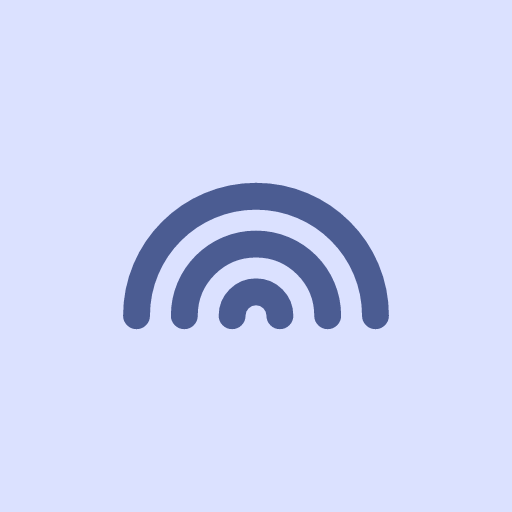
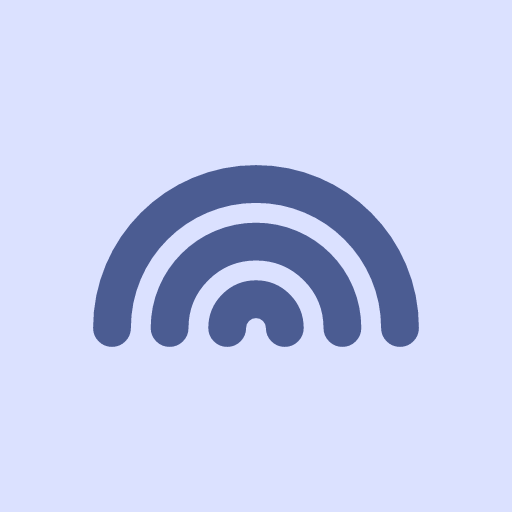
startpage: r39
- fade the help and settings toolbar while the search box has focus, like the speed dial; hovering it brings it back
- close the suggestions as the reverse of opening: the list stays while the box shrinks over it, and the separator fades out instead of cutting across the rounded corners
- enlarge the arcs in the maskable icons (`startpage_icon_maskable_x192.png`, `startpage_icon_maskable_x512.png`) from 52% to 64% of the canvas, so the home screen icon reads bigger and bolder

Changed region(s): [[0.1562, 0.3125, 0.8438, 0.6875], [0.4375, 0.5, 0.5625, 0.5625]]

diff --git a/startpage/index.html b/startpage/index.html
@@ -877,14 +877,24 @@
         color: var(--on-secondary);
       }
 
+      /* Closing keeps the list in place so the box shrinks over it, the reverse of opening. The
+         closed list stays in the page but is hidden once the box has shut, and can't be clicked
+         on its way out. */
       .suggest-wrap {
         display: grid;
         grid-template-rows: 0fr;
-        transition: grid-template-rows var(--spring-ms) var(--spring);
+        visibility: hidden;
+        pointer-events: none;
+        transition:
+          grid-template-rows var(--spring-ms) var(--spring),
+          visibility 0s var(--spring-ms);
       }
 
       .search-box.open .suggest-wrap {
         grid-template-rows: 1fr;
+        visibility: visible;
+        pointer-events: auto;
+        transition-delay: 0s;
       }
 
       .suggest {
@@ -899,6 +909,14 @@
         height: 1px;
         margin-bottom: 8px;
         background: var(--outline-variant);
+        opacity: 0;
+        transition: opacity var(--effects-ms) linear;
+      }
+
+      /* The separator fades out ahead of the closing box: at full strength it would cut across
+         the rounded corners as they reach it. */
+      .search-box.open .suggest::before {
+        opacity: 1;
       }
 
       .suggest:not(:empty)::after {
@@ -1243,6 +1261,18 @@
         border-radius: var(--shape-full);
         background: var(--surface-container-high);
         box-shadow: var(--elevation-2);
+        transition: opacity var(--spring-ms) var(--ease-effects);
+      }
+
+      /* Steps back with the speed dial while the search box has focus. */
+      body:has(.search-input:focus) .toolbar {
+        opacity: 0.38;
+      }
+
+      @media (hover: hover) {
+        body:has(.search-input:focus) .toolbar:hover {
+          opacity: 1;
+        }
       }
 
       /* On wide screens the page never reaches the corner, so the toolbar can stay bare. */
@@ -4325,7 +4355,7 @@
         if (moved && open) {
           for (const li of els.suggest.children)
             li.setAttribute('aria-selected', String(Number(li.dataset.i) === activeOption));
-        } else els.suggest.innerHTML = open ? options.map(optionHtml).join('') : '';
+        } else if (open) els.suggest.innerHTML = options.map(optionHtml).join('');
         if (open) els.q.setAttribute('aria-activedescendant', `opt-${activeOption}`);
         else els.q.removeAttribute('aria-activedescendant');
         animateInputHeight();
